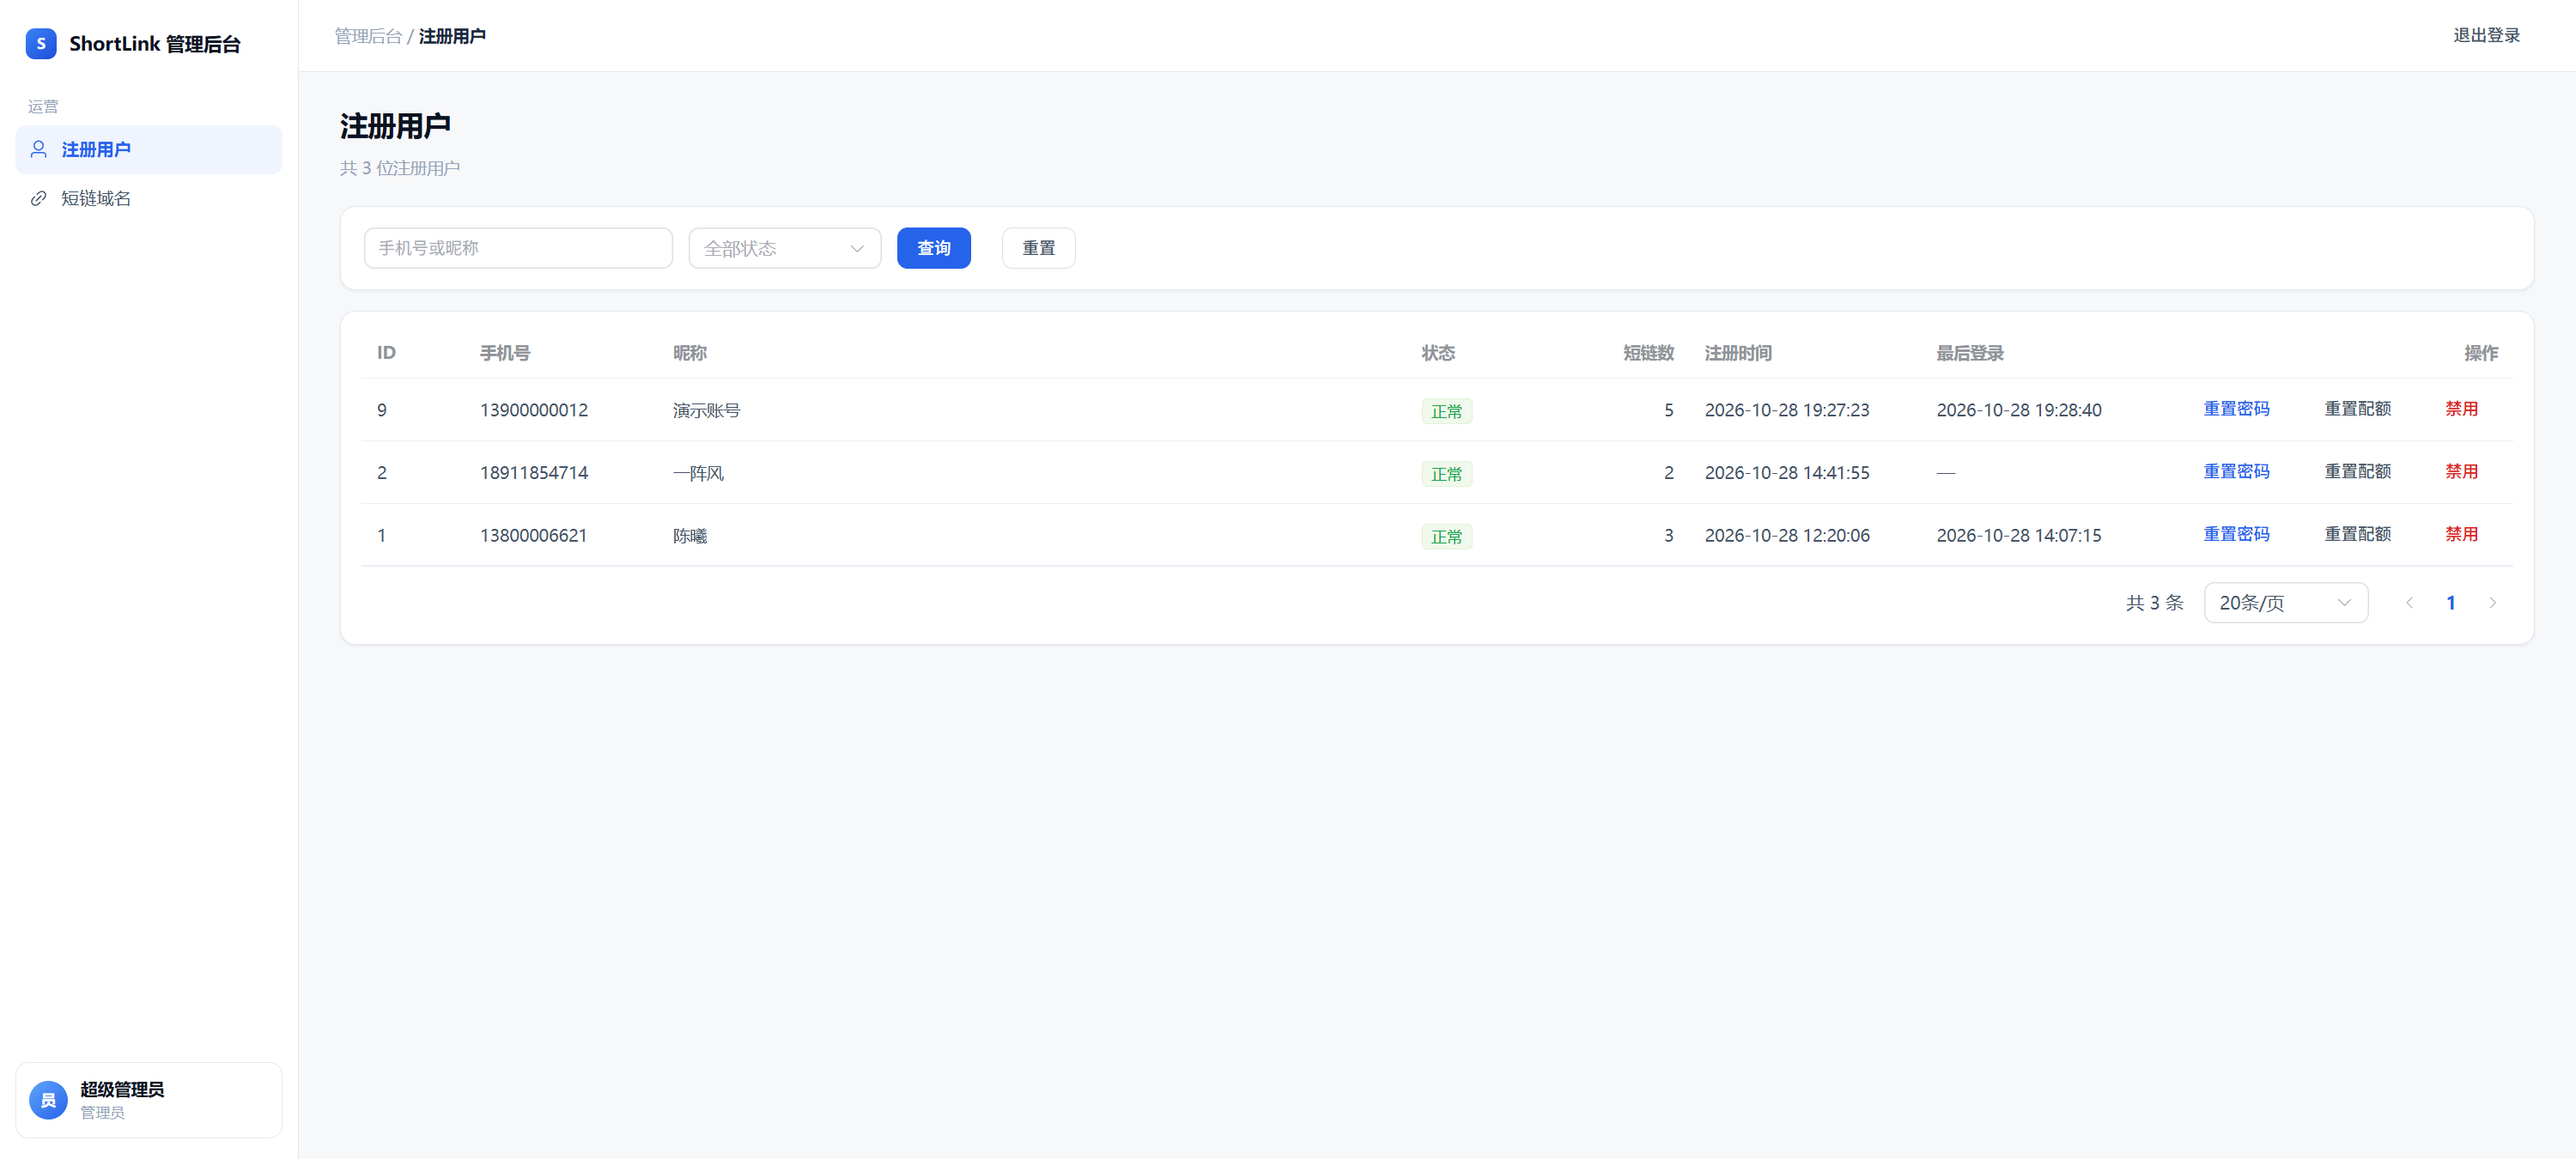
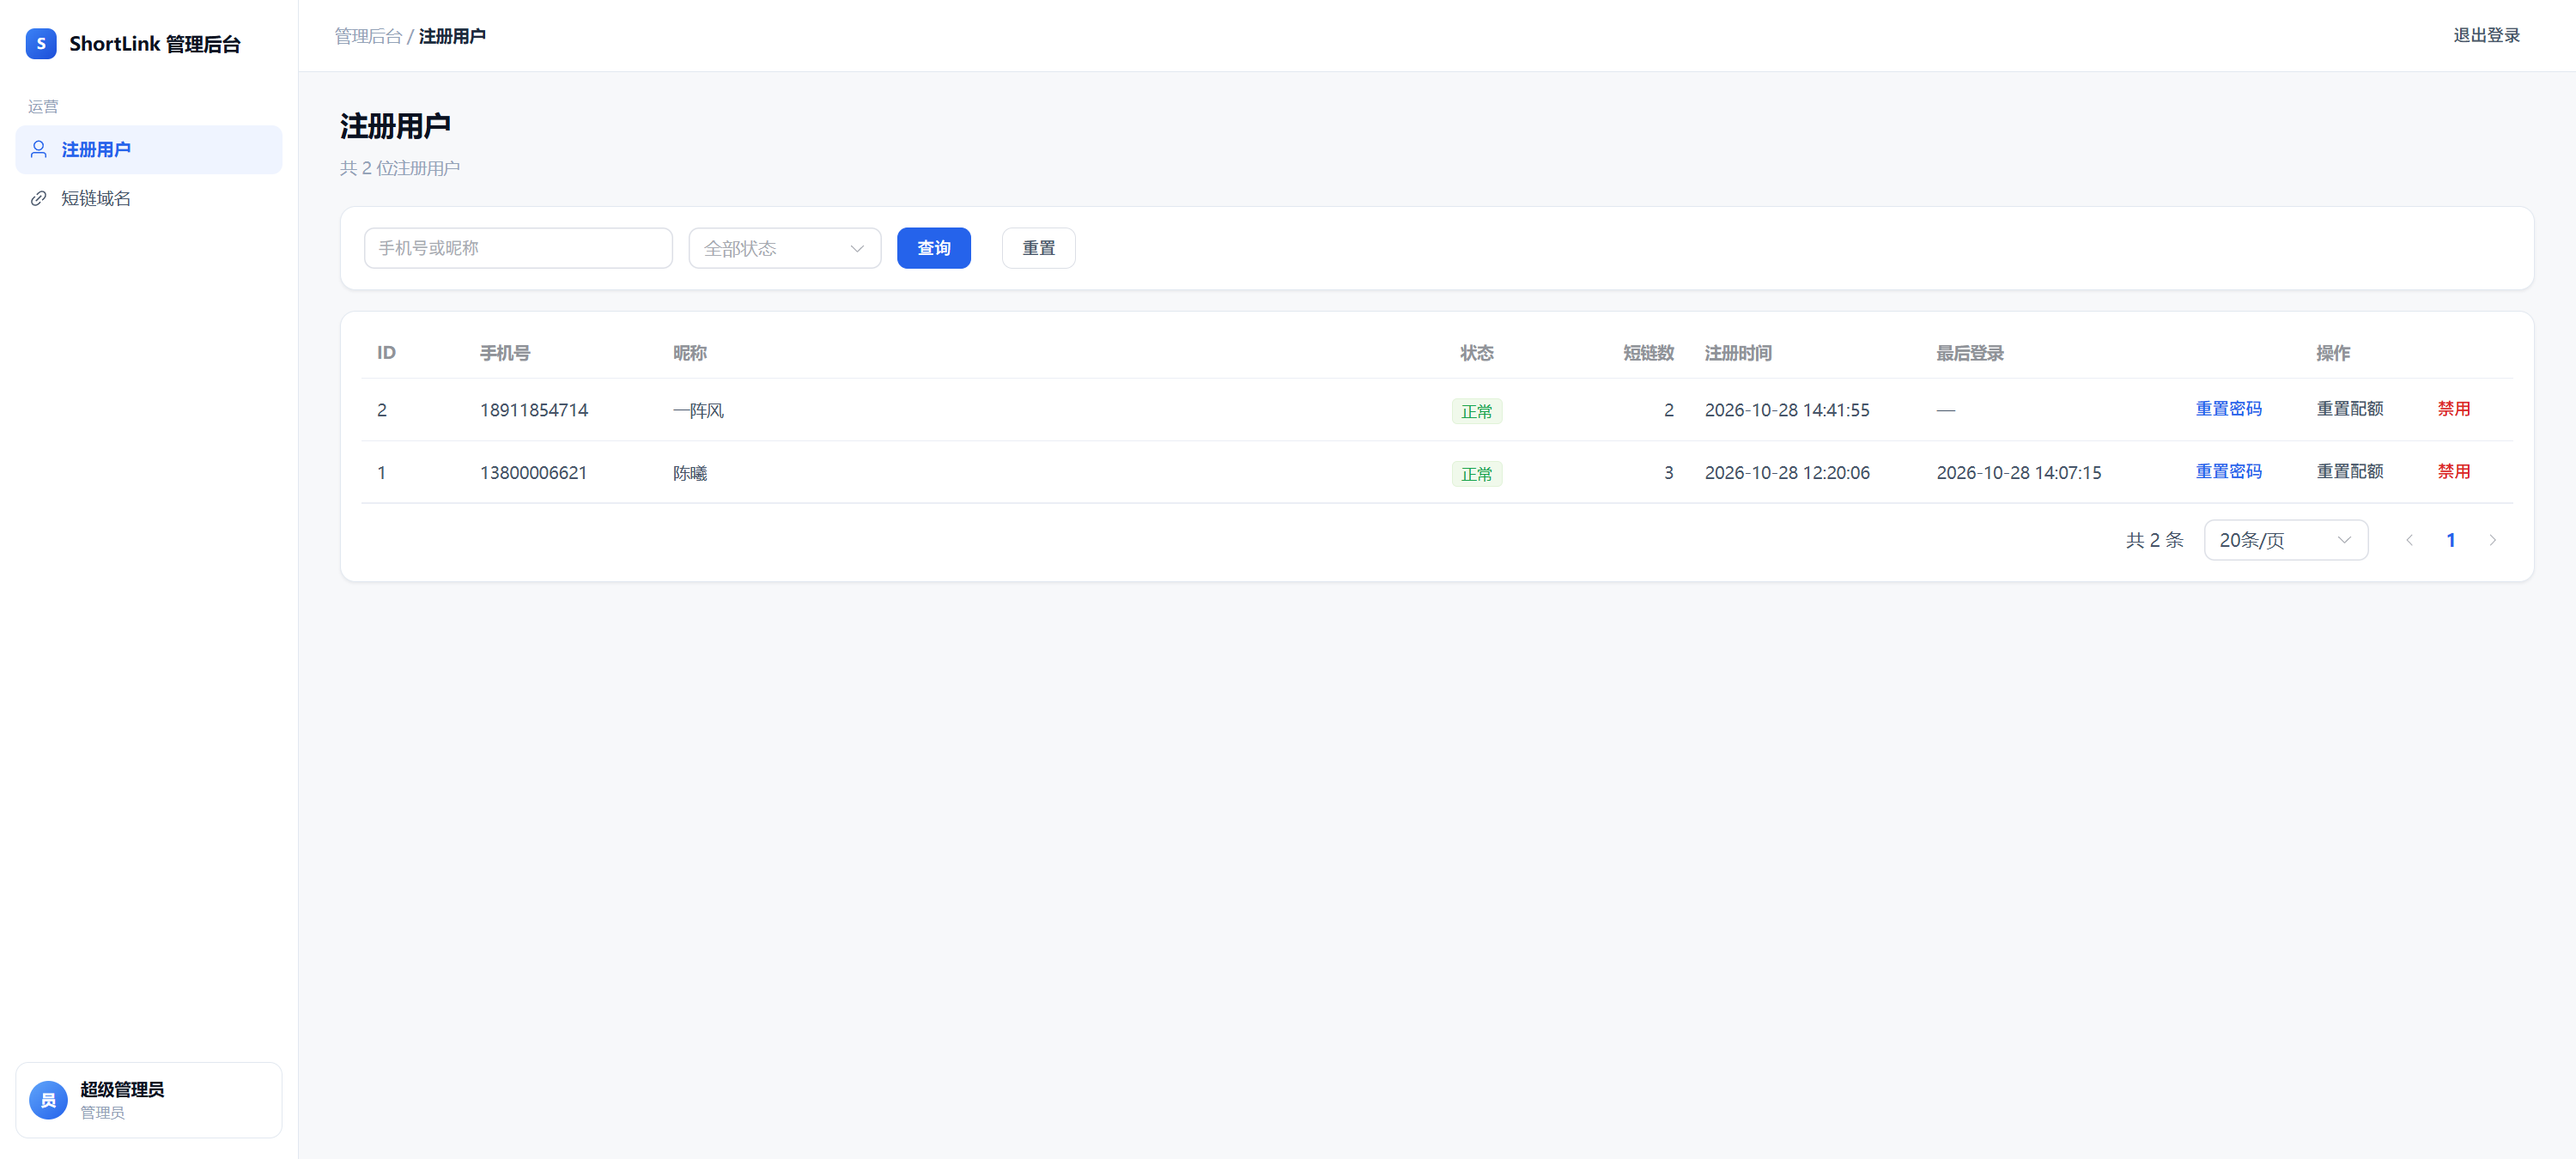
style(admin-web): 用户列表的状态与操作列居中
状态列之前靠左、操作列靠右，和表头对不齐；两列统一 align="center"，
并同步更新 README 里的后台截图。

diff --git a/frontend/admin-web/src/views/UsersView.vue b/frontend/admin-web/src/views/UsersView.vue
@@ -126,7 +126,7 @@ async function submitReset() {
         <el-table-column prop="nickname" label="昵称" min-width="140">
           <template #default="{ row }">{{ row.nickname || '—' }}</template>
         </el-table-column>
-        <el-table-column label="状态" width="110">
+        <el-table-column label="状态" width="110" align="center">
           <template #default="{ row }">
             <el-tag :type="row.status === 1 ? 'success' : 'info'" size="small" effect="light">
               {{ row.status === 1 ? '正常' : '已禁用' }}
@@ -142,7 +142,7 @@ async function submitReset() {
         <el-table-column label="最后登录" width="180">
           <template #default="{ row }">{{ row.lastLoginAt || '—' }}</template>
         </el-table-column>
-        <el-table-column label="操作" width="280" align="right">
+        <el-table-column label="操作" width="280" align="center">
           <template #default="{ row }">
             <el-button text type="primary" @click="openReset(row)">重置密码</el-button>
             <el-button text @click="resetQuota(row)">重置配额</el-button>
